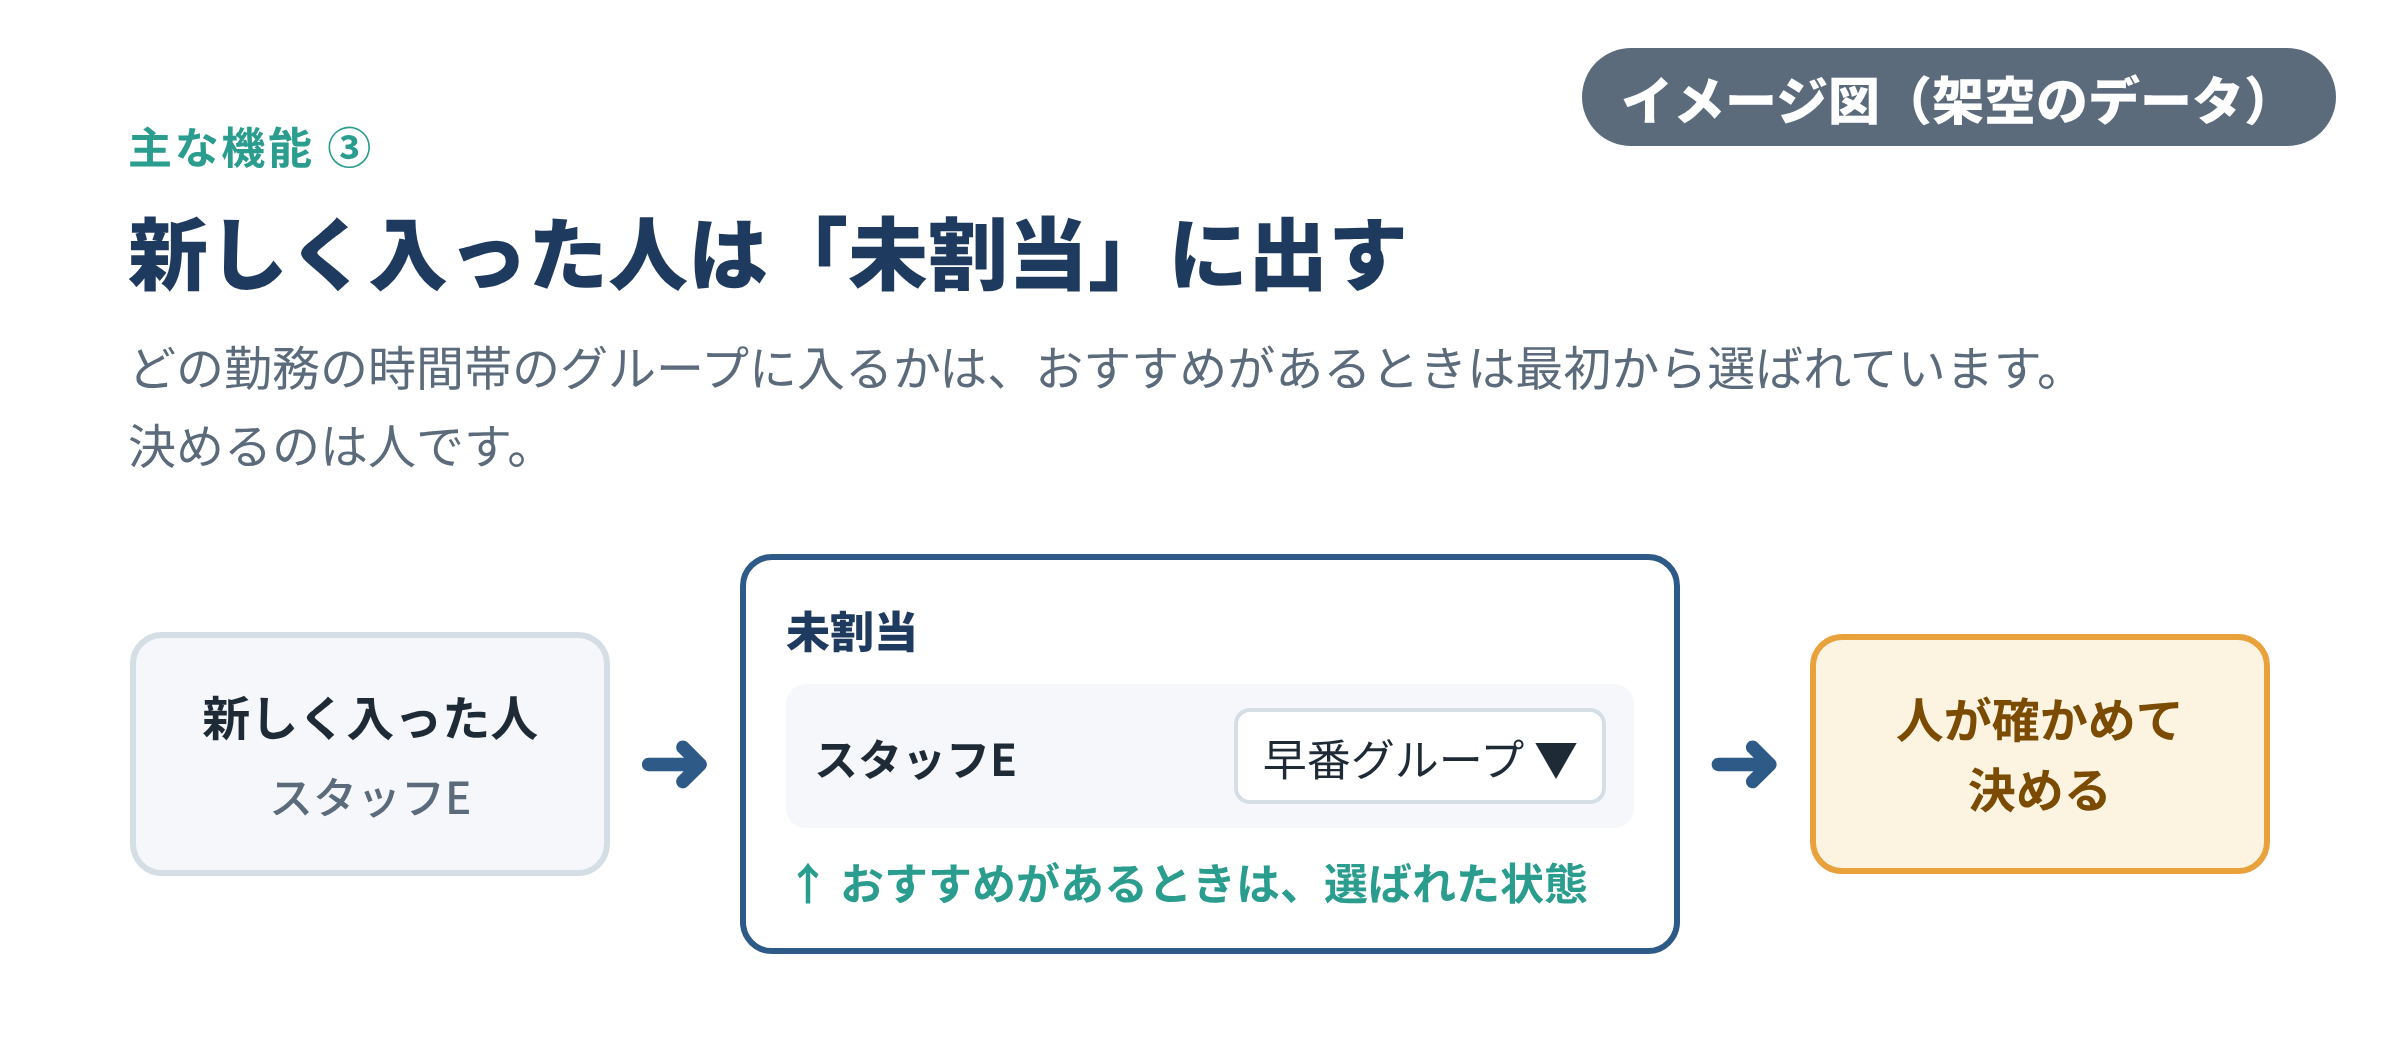
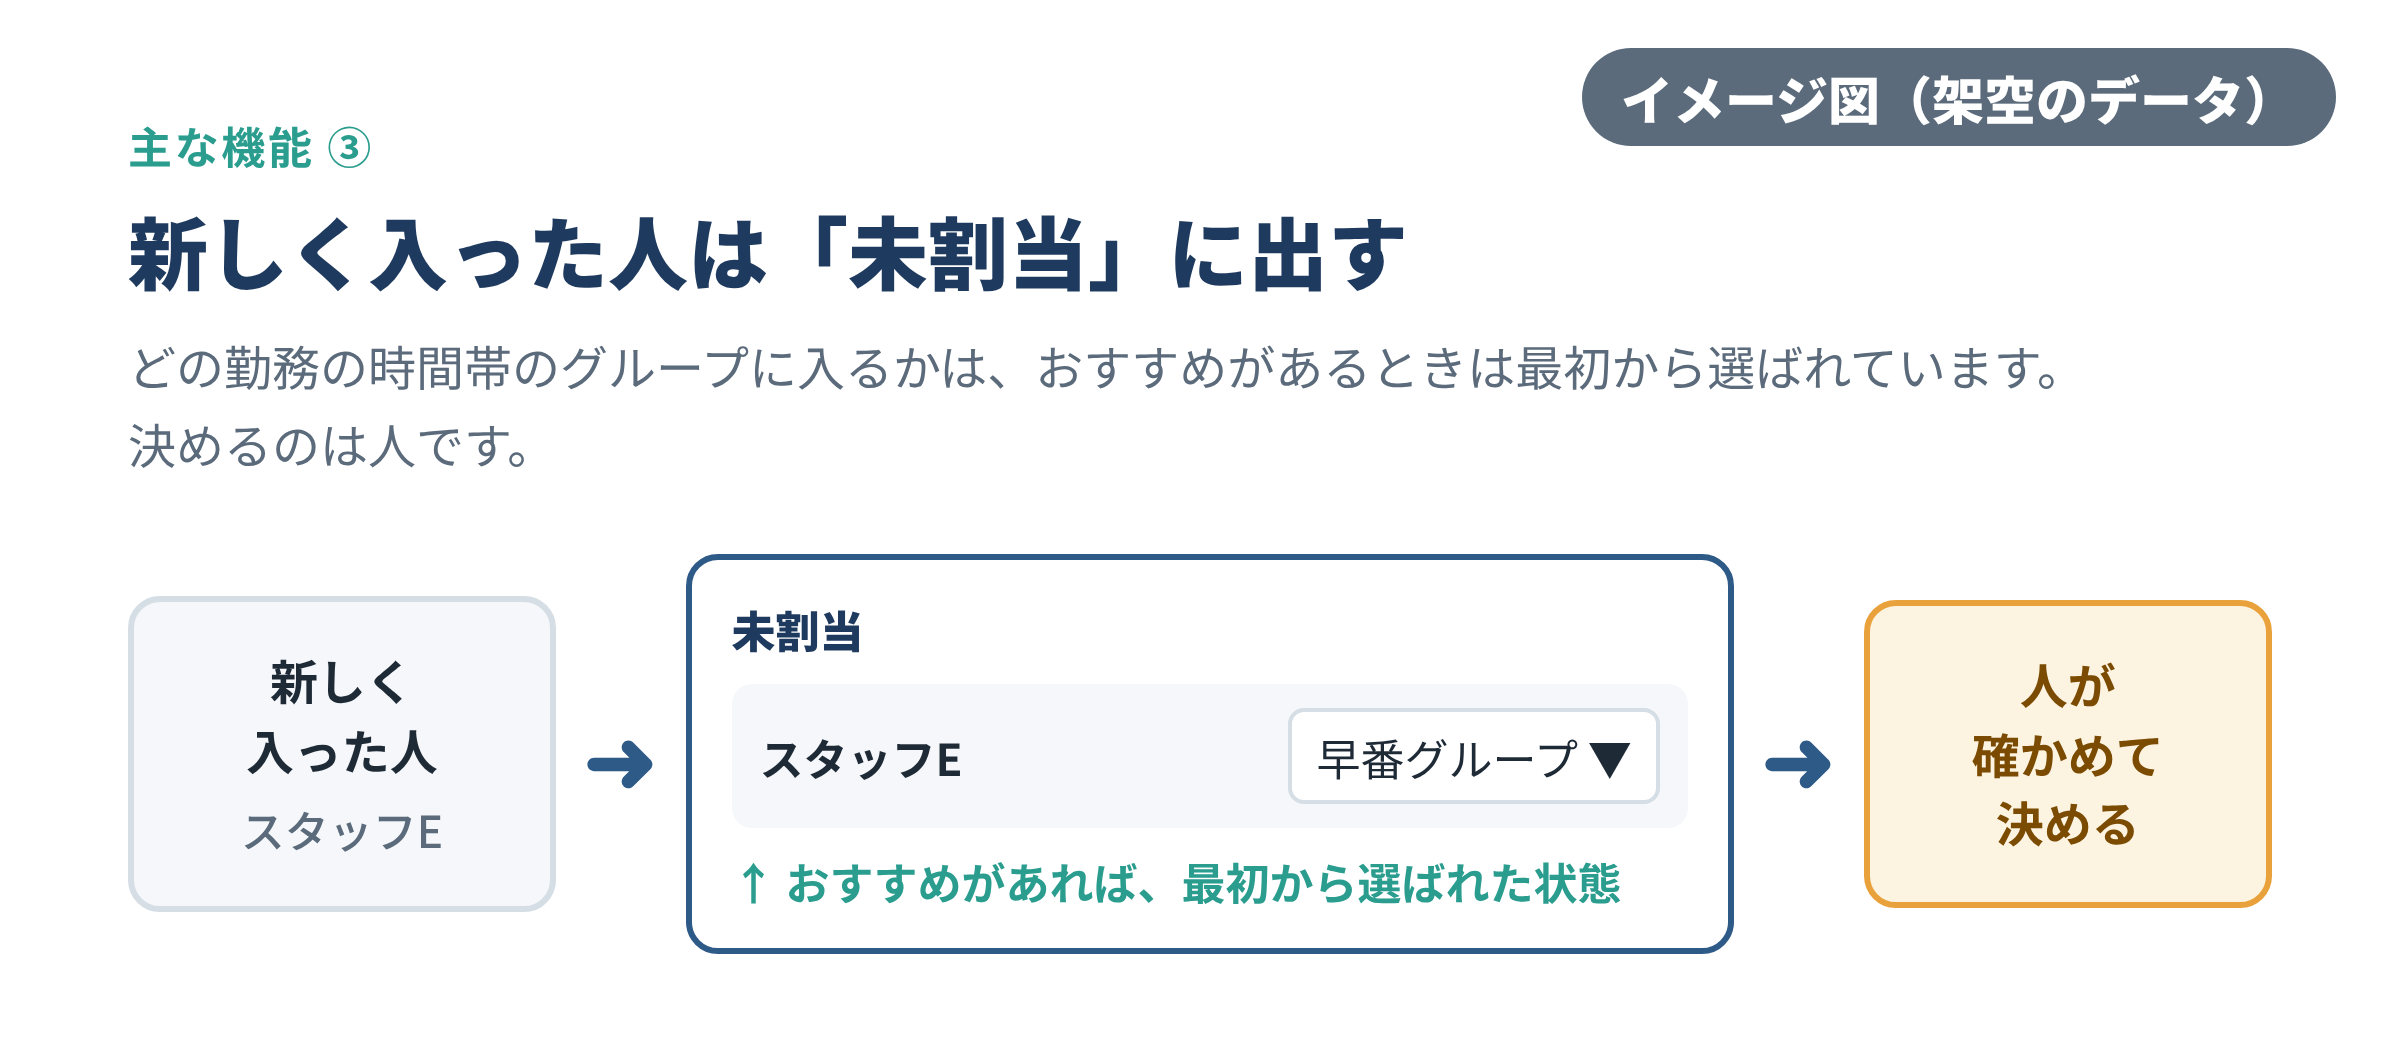
T228：図解v2の最終調整と監査記録（図の品質PASS）、オフィスを更新
Claude-Session: https://claude.ai/code/session_019zHJ4PF5JLSeVg2X1jgQpm

diff --git a/office/state.js b/office/state.js
@@ -247,7 +247,7 @@ window.AI_STATE = {
     { id: "T223", title: "「スターターキット」モニター向け公式LINE：はじめかたステップ配信設計（コホマダ）", owner: "ジン", status: "review", progress: 95, hint: "実装完了（ローカルコードのみ、Draft）。community-ops/line/webhook-server.mjs拡張（onb=プレフィックスのpostback応答）・community-ops/line/lib/onboarding-content.mjs新規（カエデ文言をそのまま転記）・scripts/onboarding-progress-gate.gs新規（GAS進捗記録）・.env.example/README.md更新。構文チェック済み、ジンがコード内容もレビュー済み。本番デプロイ・LINE接続・GAS公開操作は未実施。次は①鈴木さんによるLINE公式アカウントマネージャー「応答設定」の画面確認②GASスクリプトの実デプロイ・環境変数設定③実機動作確認④配信開始、すべて社長ご自身の操作が必要", cmd: "", log: [ { time: "now", text: "社長よりモニター向けステップ配信の構築設計を依頼され起票。既存資産（community-ops/line基盤、スタータープランはじめかた早見表のQ&A）を確認しサトル・カエデ・ノヴァへ並列委任" }, { time: "now", text: "3人の初版設計が完成。LINE公式アカウントのネイティブ「ステップ配信」機能では要件（完了トリガー・分岐ヒアリング）を満たせず、既存webhook基盤の拡張が必要と結論" }, { time: "now", text: "社長へ登録手順の対象範囲（案A/B/C）を確認、「案C（6ステップ）」と回答を受領。カエデ・ノヴァへ確定版への更新を依頼、状態管理はGAS+スプレッドシート方式に統一するようジンが判断" }, { time: "now", text: "カエデが文言作成中にStep1(Discord未参加者)の詰まり対応で設計上の矛盾（既存の個別相談不可方針・自由文非対応のwebhook設計と衝突）を発見。社長へ確認し「固定招待リンク併記で回避」を選択、カエデ・ノヴァへ反映依頼し完了" }, { time: "now", text: "社長より残り3点（Discord招待リンク実URL・Step1その他の代替連絡先＝公式LINE個別チャット・モニター開始は社長個別push）の回答を受領。ノヴァへBot自動応答と手動チャット返信の併用可否の技術検証もあわせて依頼。一次情報（LINE公式ニュース・応答設定マニュアル）で技術的に成立すると判断も、実装前の実機最終確認を推奨事項として明記" }, { time: "now", text: "社長より重要な訂正：対象は「実務者のAIエージェント勉強会」ではなく「スターターキット」モニターであり、案内範囲もインストール〜設定までに限定と判明。サトルへ差し戻し、元アーティファクト「スターターキットはじめかたガイド」を土台に4ステップで再設計。範囲（案①/②）・モニターの同一性・詰まり時の誘導先を社長に確認し、案②(4ステップ)・T127の10人と同一・公式LINE個別チャット誘導、で確定。カエデ・ノヴァへ全面書き直しを依頼し、v4で3人の成果物が完全に整合" } ], deliverables: [ { title: "LINEステップ配信_フロー設計_v1（サトル・v3最終版）", type: "md", at: "now", path: "logs/kohomada_2026-09-04_LINEステップ配信_フロー設計_v1.md" }, { title: "LINEステップ配信_メッセージ文言案_v1（カエデ・v4最終版）", type: "md", at: "now", path: "logs/kohomada_2026-09-04_LINEステップ配信_メッセージ文言案_v1.md" }, { title: "LINEステップ配信_技術実装方針_v1（ノヴァ・v4最終版）", type: "md", at: "now", path: "logs/kohomada_2026-09-04_LINEステップ配信_技術実装方針_v1.md" } ] },
     { id: "T224", title: "貿易事業に関わる損害保険分野のリサーチ（コホマダ）", owner: "リサ", status: "review", progress: 100, hint: "調査完了・アオイ監査PASS WITH CONDITIONS→指摘反映済みv2。論点は①貨物保険（外航/国内・輸出FOB）②代金回収（NEXI/民間取引信用保険）③PL（輸出＝海外PL、輸入＝国内PL）④保管中在庫⑤リコール・知財等。どれが必要かはコホマダの取引形態次第のため、取引形態・インコタームズ・決済条件・品目・自社ブランド有無のヒアリングが必要", cmd: "T224：取引形態は〇〇（輸出/輸入/三国間）、条件は〇〇、決済は〇〇", log: [ { time: "now", text: "社長より依頼。リサに調査を委任、着手" }, { time: "now", text: "リサの調査完了（出典37件）。アオイ監査PASS WITH CONDITIONS（ラベル格下げ・FCA行の誤り・料率非公表の言い過ぎ）。v2で反映" } ], deliverables: [ { title: "貿易関連損害保険調査_v2（監査指摘反映済み）", type: "md", at: "now", path: "logs/kohomada_2026-10-10_貿易関連損害保険調査_v2.md" } ] },
     { id: "T225", title: "貿易関連損害保険を自社で取り扱う方法のリサーチ（代理店登録・紹介モデル等）（コホマダ）", owner: "リサ", status: "review", progress: 100, hint: "調査完了・アオイ監査済み（2本ともPASS WITH CONDITIONS→条件反映済み）。ルートは①紹介者（登録不要・商品説明不可）②既存代理店と提携③自社が損保代理店登録（登録免許税1.5万円、海上・運送のみなら損保一般試験は任意、Shippio型）④保険仲立人（保証金最低1,000万円）。金融サービス仲介業はB2B保険を扱えないと読める。NEXIは非金融事業者の委託枠組みなし。代理店化の注意点は自己契約50%みなし規制と便宜供与禁止。どのルートを目指すかは社長判断、行動前に弁護士確認が必要", cmd: "T225：まずは①紹介モデルで進める／③代理店登録を目指す（どちらか）", log: [ { time: "now", text: "社長より依頼（T224の続き）。リサ・リョウに並行委任、着手" }, { time: "now", text: "2本完成。アオイ監査：リサPASS WITH CONDITIONS、リョウREVISE。リョウがe-Gov条文を再照合しv2作成" }, { time: "now", text: "再監査でPASS WITH CONDITIONS。施行規則234条2号をe-Gov原文で確認し、威迫・地位利用の禁止は損保代理店にもかかると訂正" } ], deliverables: [ { title: "取扱ルート調査_v2（リサ）", type: "md", at: "now", path: "logs/kohomada_2026-10-10_貿易関連損害保険_取扱ルート調査_v2.md" }, { title: "保険業法論点整理_v2（リョウ）", type: "md", at: "now", path: "logs/kohomada_2026-10-10_貿易関連損害保険取扱い_保険業法論点整理_v2.md" } ] },
-    { id: "T228", title: "note記事（T227）の図解・表の画像づくり", owner: "カエデ", status: "doing", progress: 10, hint: "記事に入れる図解画像を作成中（主な機能8枚＋全体像などの図）", cmd: "", log: [ { time: "10/27", text: "起票。図にする箇所を分析し、画像を作成開始" } ], deliverables: [] },
+    { id: "T228", title: "note記事（T227）の図解・表の画像づくり", owner: "カエデ", status: "review", progress: 95, hint: "図解16枚完成（アオイ：図の品質PASS）。挿入ガイドの位置どおりにnoteへ入れる。公開前に先方の書面承諾（図解を含む）とNDA確認。投稿は社長ご自身で", cmd: "T228の図をOK。先方確認メールの下書きを作って", log: [ { time: "10/27", text: "起票。図にする箇所を分析し、画像を作成開始" }, { time: "10/27", text: "図解v1（16枚）→アオイ監査でずれ3か所・小さい文字を指摘→v2で修正→図の品質PASS。本文もv4に（元に戻すの一文を追加）" } ], deliverables: [ { title: "note図解 v2（16枚＋挿入ガイド）", type: "folder", at: "10/27", path: "logs/kohomada_2026-10-27_note記事_シフト表ツール事例_図解_v2/" }, { title: "note記事 公開用本文 v4", type: "md", at: "10/27", path: "logs/kohomada_2026-10-27_note記事_シフト表ツール事例_公開用本文_v4.md" } ] },
     { id: "T227", title: "note記事下書き：シフト表ツールの事例紹介（取引先名は非公開）", owner: "カエデ", status: "review", progress: 95, hint: "公開用本文v3完成（アオイ：原稿PASS／全文照合でハルシネーション0件）。公開前に①先方の役員にこの最終原稿を見ていただきメール等で承諾を記録 ②店舗が直営か確認 ③NDAの締結版を確認 ④「今回は1店舗から」等の表現でよいか。投稿は社長ご自身で", cmd: "T227の先方確認メールの下書きを作って", log: [ { time: "10/27", text: "起票。カエデ（本文）・リョウ（NDA論点）に依頼" }, { time: "10/27", text: "v1→v2（リョウの論点を反映：先方の社内事情・現状・既存Excelの不具合を削除）→v3（アオイ監査の指摘C1〜C8・R1〜R7）→v4（再確認K1〜K3）" }, { time: "10/27", text: "タイトル・問い合わせ先決定→アオイが全文を1文ずつ照合（作り話0件、ずれ9か所を修正）→公開用本文v3で原稿PASS" } ], deliverables: [ { title: "note記事 公開用本文 v3", type: "md", at: "10/27", path: "logs/kohomada_2026-10-27_note記事_シフト表ツール事例_公開用本文_v3.md" }, { title: "note記事 管理版 v9（出典・監査記録つき）", type: "md", at: "10/27", path: "logs/kohomada_2026-10-27_note記事_シフト表ツール事例_v9.md" } ] },
     { id: "T226", title: "貿易関連損害保険5分野の初心者向け解説ガイド作成（コホマダ）", owner: "リサ", status: "review", progress: 100, hint: "ガイド完成・アオイ監査PASS WITH CONDITIONS→出典再確認のうえv2で反映済み。全体像（取引の流れ×保険の対応表）、5分野ごとの解説（何に備えるか・誰が入るか・補償外・保険料・申込み・事故時の流れ）、用語集22語、よくある誤解9つ、自社チェックリスト18問。次はチェックリストで取引形態をヒアリングし、必要な分野を絞り込む", cmd: "T226：チェックリストに答えます", log: [ { time: "now", text: "社長より依頼。リサに委任、着手" }, { time: "now", text: "ガイド完成。アオイ監査PASS WITH CONDITIONS（ICC(C)表の凡例、代金保険の一般化、料率非公表の表現等）。リサが出典を再確認しv2作成" } ], deliverables: [ { title: "貿易損害保険_初心者ガイド_v2", type: "md", at: "now", path: "logs/kohomada_2026-10-10_貿易損害保険_初心者ガイド_v2.md" } ] },
   ],

diff --git a/logs/kohomada_2026-10-27_note記事_シフト表ツール事例_図解_v2/figures.html b/logs/kohomada_2026-10-27_note記事_シフト表ツール事例_図解_v2/figures.html
@@ -143,18 +143,18 @@
   <h2>新しく入った人は「未割当」に出す</h2>
   <p class="lead">どの勤務の時間帯のグループに入るかは、おすすめがあるときは最初から選ばれています。<br>決めるのは人です。</p>
   <div class="row" style="justify-content:center;gap:14px">
-    <div class="box b-soft" style="width:240px">新しく入った人<span class="small">スタッフE</span></div>
+    <div class="box b-soft" style="width:220px;padding:22px 12px">新しく<br>入った人<span class="small">スタッフE</span></div>
     <div class="arrow">➜</div>
-    <div style="width:470px;border:3px solid var(--navy2);border-radius:16px;padding:18px 20px">
+    <div style="width:540px;border:3px solid var(--navy2);border-radius:16px;padding:18px 20px">
       <div style="font-size:22px;font-weight:900;color:var(--navy);margin-bottom:12px">未割当</div>
       <div class="row" style="justify-content:space-between;background:var(--bg);border-radius:10px;padding:12px 14px">
         <span style="font-size:22px;font-weight:700">スタッフE</span>
         <span style="font-size:22px;border:2px solid var(--line);background:#fff;border-radius:8px;padding:6px 12px">早番グループ ▼</span>
       </div>
-      <div style="font-size:22px;color:var(--teal);font-weight:700;margin-top:10px">↑ おすすめがあるときは、選ばれた状態</div>
+      <div style="font-size:22px;color:var(--teal);font-weight:700;margin-top:10px">↑ おすすめがあれば、最初から選ばれた状態</div>
     </div>
     <div class="arrow">➜</div>
-    <div class="box b-am" style="width:230px">人が確かめて<br>決める</div>
+    <div class="box b-am" style="width:210px;padding:22px 12px">人が<br>確かめて<br>決める</div>
   </div>
 </section>
 

diff --git a/logs/kohomada_2026-10-27_note記事_シフト表ツール事例_図解_v2/挿入ガイド.md b/logs/kohomada_2026-10-27_note記事_シフト表ツール事例_図解_v2/挿入ガイド.md
@@ -49,3 +49,8 @@
 - 07 の「ツールを閉じたり、月を切り替えたりすると、それまでの操作は元に戻せません」は手順書（409〜410行）にもとづく。公開用本文 v4 の54〜55行にも同じ一文を足した
 - 13 の「印刷した表・PDF＝載る」は推測（強）による言い切り（実物は未確認）。注意を促す方向の書き方として許容（アオイ）
 - 公開前にアオイの監査を経ること（external-publication-policy.md）。投稿・公開は社長自身が行う
+
+## 監査の記録（アオイ、2026-10-27）
+- 図解 v1：**図の品質 PASS WITH CONDITIONS**。架空の法令・制度・数値・機能はなし。05・06・07 の意味のずれと、小さい文字（M1〜M4）を v2 で修正
+- 図解 v2：**図の品質 PASS**。M1〜M4 と推奨はすべて反映済み。任意の1件（04「最初から」）も反映済み
+- **公開してよいか：HUMAN REVIEW REQUIRED**。締結済み NDA の確認と、先方からの書面による掲載承諾（図解16枚を含む）が必要。最後に社長が承認し、投稿は社長自身が行う
